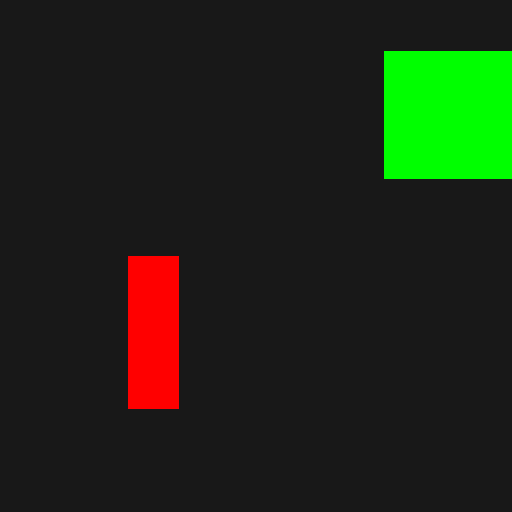
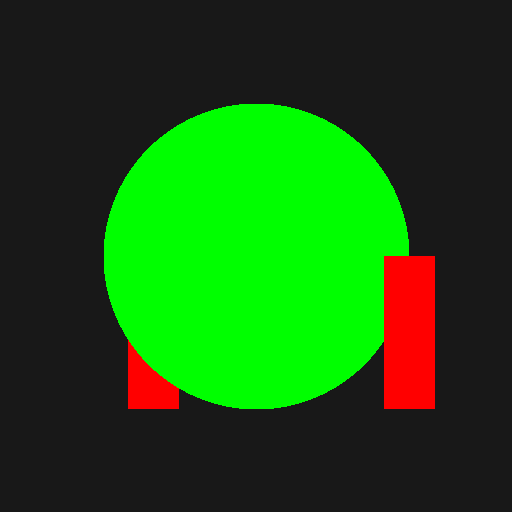
circles

diff --git a/uhm.h b/uhm.h
@@ -198,8 +198,7 @@ bool parse_instruction(char* data, uint32_t size, uint32_t width, uint32_t heigh
         int32_t realWidth = Rwidth*width;
         int32_t realHeight = Rheight*width;
 
-
-        UHM_PRINTF("Drawing rectangle x: %d y: %d width: %d height: %d fillType: %c color: %x",realX,realY,realWidth,realHeight,fillType,color);
+        UHM_PRINTF("Drawing rectangle x: %d y: %d width: %d height: %d fillType: %c color: %x\n",realX,realY,realWidth,realHeight,fillType,color);
 
         for(int32_t i = realY; i < realY+realHeight; i++){
             if(i < 0 || i >= width) continue;
@@ -208,8 +207,39 @@ bool parse_instruction(char* data, uint32_t size, uint32_t width, uint32_t heigh
                 ((uint32_t*)output_data)[i*width + j] = color;
             }
         }
-        
-    }else{
+    }
+    else if(opcode == 'C'){
+        float x = uhm_chopf32(data,size,cursor,&error);
+        if(error) return false;
+        float y = uhm_chopf32(data,size,cursor,&error);
+        if(error) return false;
+        float r = uhm_chopf32(data,size,cursor,&error);
+        if(error) return false;
+        uint8_t fillType = uhm_chop8(data,size,cursor,&error);
+        if(error) return false;
+        uint32_t color = uhm_chop32(data,size,cursor,&error);
+        if(error) return false;
+
+        int32_t realX = x*width;
+        int32_t realY = y*width;
+        int32_t realR = r*width;
+
+        UHM_PRINTF("Drawing circle x: %d y: %d radius: %d fillType: %c color: %x\n",realX,realY,realR,fillType,color);
+
+        for(int32_t i = realY - realR; i < realY + realR; i++){
+            if(i < 0 || i >= width) continue;
+            for(int j = realX - realR; j < realX + realR; j++){
+                if(j < 0 || j >= height) continue;
+                uint32_t y = i - realY;
+                uint32_t x = j - realX;
+                if(y*y + x*x < realR*realR){
+                    ((uint32_t*)output_data)[i*width + j] = color;
+                }
+            }
+        }
+    }
+    else{
+        UHM_PRINTF("Unknown Opcode\n");
         return false;
     }
 

diff --git a/examples/generatingImage.cpp b/examples/generatingImage.cpp
@@ -106,6 +106,15 @@ void add_rectangle_filled(std::vector<char>& vec, float x, float y, float w, flo
     add_color(vec,color);
 }
 
+void add_circle_filled(std::vector<char>& vec, float x, float y, float r, uint32_t color){
+    add_u8(vec,'C');
+    add_f32(vec,x);
+    add_f32(vec,y);
+    add_f32(vec,r);
+    add_u8(vec,'F');
+    add_color(vec,color);
+}
+
 void add_boilerplate(std::vector<char>& vec, uint32_t backgroundColor){
     add_u8(vec,'U');
     add_u8(vec,'H');
@@ -114,15 +123,17 @@ void add_boilerplate(std::vector<char>& vec, uint32_t backgroundColor){
 }
 
 int main(){
-
+    uint32_t width = 512;
+    uint32_t height = 512;
     std::vector<char> uhm_tester = {};
     add_boilerplate(uhm_tester, 0xFF181818);
     add_rectangle_filled(uhm_tester,0.25,0.5,0.1,0.3,0xFFFF0000);
 
-    add_rectangle_filled(uhm_tester,0.75,0.1,0.25,0.25,0xFF00FF00);
+    add_circle_filled(uhm_tester,0.5,0.5,0.3,0xFF00FF00);
+    add_rectangle_filled(uhm_tester,0.75,0.5,0.1,0.3,0xFFFF0000);
 
-    char* data = uhm_encode(uhm_tester.data(),uhm_tester.size(),512,512);
-    stbi_write_png("output.png",512,512,4,data,512*4);
+    char* data = uhm_encode(uhm_tester.data(),uhm_tester.size(),width,height);
+    stbi_write_png("output.png",width,height,4,data,width*4);
 
     return 0;
 }
